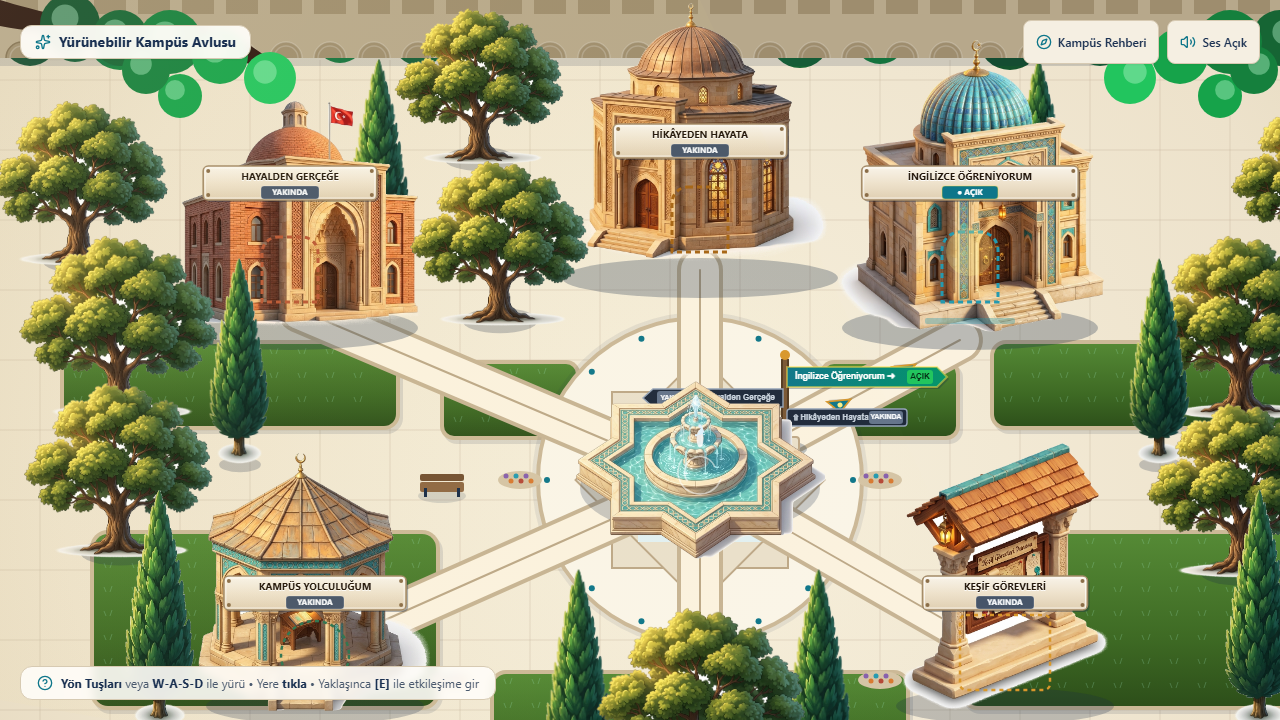
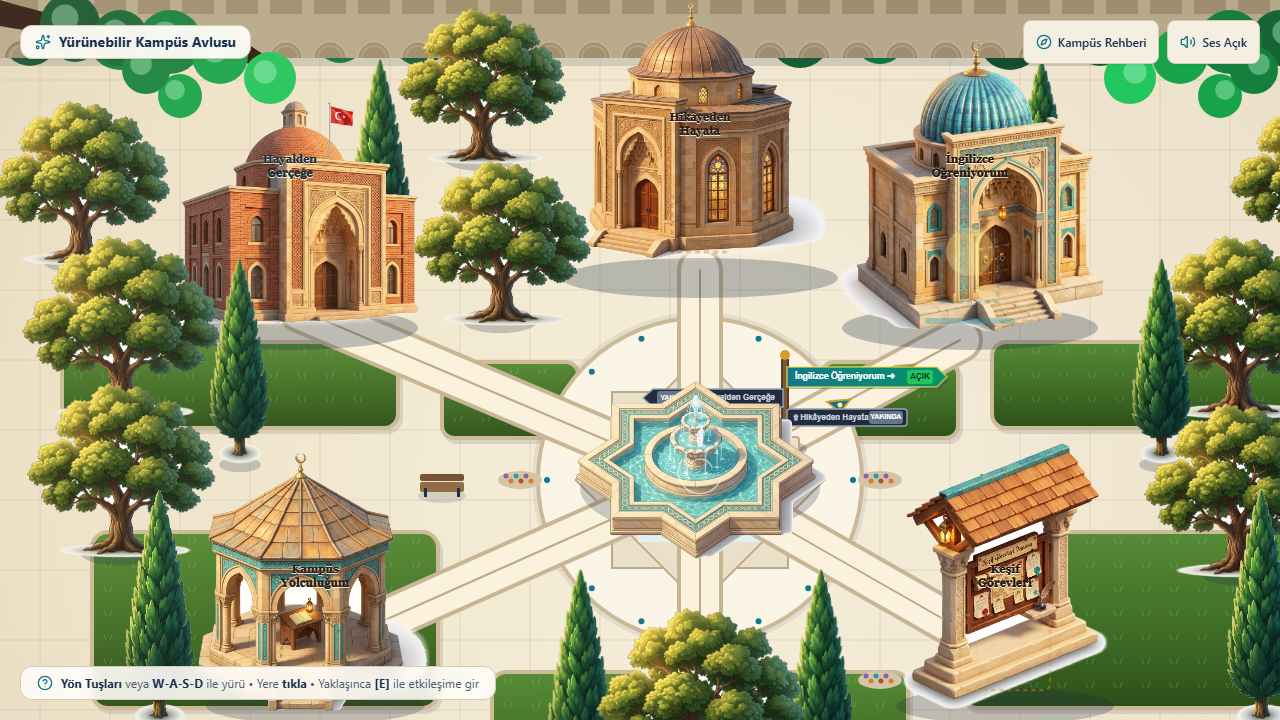
fix(visual): integrate building names directly into architectural walls

diff --git a/src/features/walkable/engine/courtyardSceneRenderer.ts b/src/features/walkable/engine/courtyardSceneRenderer.ts
@@ -10,7 +10,7 @@
 
 import type { PlayerCharacter } from '../types';
 import { drawCharacter } from './characterRenderer';
-import { CAMPUS_INSCRIPTION_NAMES } from '@/src/data/brandConfig';
+import { CAMPUS_ARCHITECTURAL_INSCRIPTIONS } from '@/src/data/brandConfig';
 import {
   getEnglishBuildingAsset,
   getDiscoveryBuildingAsset,
@@ -946,120 +946,53 @@ function drawPathwayGuidanceArrows(ctx: CanvasRenderingContext2D) {
 }
 
 /**
- * Mimari Taş Kitabe Çizimi (Onarım 02):
- * Selçuklu taş mimarisiyle bütünleşen, oyma taş ve zarif kabartma gölgesine sahip
- * anıtsal bina kitabesi. Modern reklam levhası veya parlak plastik tabela yerine,
- * sıcak kumtaşı/kireçtaşı dokulu taş panolar ve taşa işlenmiş kabartma harfler kullanılır.
+ * Mimari Taş Duvar Yazısı Çizimi (Onarım 03A):
+ * Selçuklu taş mimarisiyle ve referans görselle tam uyumlu biçimde, doğrudan bina
+ * cephe taşlarına ya da çini frizlerine oyulmuş iki satırlı duvar kitabesi.
+ *
+ * Kesinlikle dikdörtgen tabela kutusu, kenarlık çerçevesi, asılı pano veya
+ * köşe çivisi/rozeti YOKTUR.
+ * Cephede "AÇIK" veya "YAKINDA" gibi durum ifadeleri yer almaz.
  */
-function drawBuildingPlaque(
+function drawDirectWallInscription(
   ctx: CanvasRenderingContext2D,
   centerX: number,
-  y: number,
-  title: string,
-  status: 'AÇIK' | 'YAKINDA',
-  now: number = 0,
+  startY: number,
+  lines: readonly string[] | string[],
+  variant: 'sandstone' | 'glazed-tile' = 'sandstone',
 ) {
   ctx.save();
-  const plaqueW = Math.max(154, title.length * 8.6 + 36);
-  const plaqueH = 34;
-  const plaqueX = centerX - plaqueW / 2;
-
-  // 1. Zemin derinlik temas gölgesi
-  ctx.fillStyle = 'rgba(23, 43, 71, 0.35)';
-  ctx.beginPath();
-  if (typeof ctx.roundRect === 'function') {
-    ctx.roundRect(plaqueX + 2, y + 2, plaqueW, plaqueH, 5);
-  } else {
-    ctx.rect(plaqueX + 2, y + 2, plaqueW, plaqueH);
-  }
-  ctx.fill();
-
-  // 2. Taş Kitabe Gövdesi (Sıcak Kumtaşı / Kireçtaşı Degrade)
-  const stoneGrad = ctx.createLinearGradient(plaqueX, y, plaqueX, y + plaqueH);
-  stoneGrad.addColorStop(0, '#f9f4ea');
-  stoneGrad.addColorStop(0.5, '#eee2cc');
-  stoneGrad.addColorStop(1, '#dfceb1');
-  ctx.fillStyle = stoneGrad;
-  ctx.beginPath();
-  if (typeof ctx.roundRect === 'function') {
-    ctx.roundRect(plaqueX, y, plaqueW, plaqueH, 5);
-  } else {
-    ctx.rect(plaqueX, y, plaqueW, plaqueH);
-  }
-  ctx.fill();
-
-  // 3. Selçuklu Taş Oyma Bordür ve Çerçeve
-  const isAvailable = status === 'AÇIK';
-  ctx.strokeStyle = '#a48b68';
-  ctx.lineWidth = 1.6;
-  ctx.stroke();
-
-  // İç oyuk yiv çizgisi (Derz / Inset Line)
-  ctx.strokeStyle = 'rgba(255, 255, 255, 0.65)';
-  ctx.lineWidth = 1;
-  ctx.strokeRect(plaqueX + 2, y + 2, plaqueW - 4, plaqueH - 4);
-
-  // 4 Köşe Selçuklu Geometrik Taş Rozeti / Çivi Başı
-  ctx.fillStyle = '#8b6e49';
-  const cornerR = 2;
-  const corners = [
-    [plaqueX + 5, y + 5],
-    [plaqueX + plaqueW - 5, y + 5],
-    [plaqueX + 5, y + plaqueH - 5],
-    [plaqueX + plaqueW - 5, y + plaqueH - 5],
-  ];
-  for (const [cx, cy] of corners) {
-    ctx.beginPath();
-    ctx.arc(cx, cy, cornerR, 0, Math.PI * 2);
-    ctx.fill();
-  }
-
-  // 4. Taşa Oyulmuş Kitabe Metni (Kabartma / Oyma Taş Gölgesi)
-  ctx.font = 'bold 10px "Avenir Next", "Segoe UI", sans-serif';
   ctx.textAlign = 'center';
   ctx.textBaseline = 'middle';
+  ctx.font = 'bold 11px "Georgia", "Cinzel", "Times New Roman", "Avenir Next", serif';
 
-  // Alt aydınlık yansıma (Chiseled bevel highlight)
-  ctx.fillStyle = 'rgba(255, 255, 255, 0.85)';
-  ctx.fillText(title, centerX, y + 12);
+  const lineHeight = 13.5;
+  const isTile = variant === 'glazed-tile';
 
-  // Üst oyuk gölgesi (Carved inner shadow)
-  ctx.fillStyle = '#221508';
-  ctx.fillText(title, centerX, y + 11);
+  // Çini veya kumtaşı cepheye göre oyma taş ve rölyef tonları
+  const deepColor = isTile ? '#112536' : '#27170a';
+  const highlightColor = isTile ? 'rgba(255, 255, 255, 0.78)' : 'rgba(255, 255, 255, 0.82)';
+  const innerShadowColor = isTile ? 'rgba(6, 14, 22, 0.65)' : 'rgba(20, 10, 4, 0.65)';
 
-  // 5. Zarif Durum Rozeti (Mimari Taş Kartuş / Mühür)
-  const badgeW = isAvailable ? 56 : 58;
-  const badgeH = 13;
-  const badgeX = centerX - badgeW / 2;
-  const badgeY = y + 20;
+  lines.forEach((line, index) => {
+    const lineY = startY + index * lineHeight;
 
-  ctx.fillStyle = isAvailable ? '#0e768a' : '#475569';
-  ctx.beginPath();
-  if (typeof ctx.roundRect === 'function') {
-    ctx.roundRect(badgeX, badgeY, badgeW, badgeH, 3);
-  } else {
-    ctx.rect(badgeX, badgeY, badgeW, badgeH);
-  }
-  ctx.fill();
+    // 1. Alt aydınlık taş rölyef ışıması (Güneş açısıyla ışık alan taş pahı)
+    ctx.fillStyle = highlightColor;
+    ctx.fillText(line, centerX, lineY + 1);
 
-  // Açık olan bina için hafif Selçuklu altın/turkuaz vurgusu
-  if (isAvailable) {
-    const pulse = Math.sin(now / 260) * 0.3 + 0.7;
-    ctx.strokeStyle = `rgba(253, 224, 71, ${pulse})`;
-    ctx.lineWidth = 1.2;
-    ctx.stroke();
-  } else {
-    ctx.strokeStyle = 'rgba(255, 255, 255, 0.25)';
-    ctx.lineWidth = 1;
-    ctx.stroke();
-  }
+    // 2. Üst oyuk gölgesi (Taş oyuğunun iç gölgesi)
+    ctx.fillStyle = innerShadowColor;
+    ctx.fillText(line, centerX, lineY - 0.5);
 
-  ctx.fillStyle = isAvailable ? '#ffffff' : '#f8fafc';
-  ctx.font = 'bold 8px "Avenir Next", "Segoe UI", sans-serif';
-  ctx.fillText(isAvailable ? '● AÇIK' : 'YAKINDA', centerX, badgeY + 6.5);
+    // 3. Taşa oyulmuş ana gövde rengi
+    ctx.fillStyle = deepColor;
+    ctx.fillText(line, centerX, lineY);
+  });
 
   ctx.restore();
 }
+
 
 /**
  * Merkez Meydan Yönlendirici Totem / Tabela (Section 10).
@@ -1302,8 +1235,8 @@ function drawEnglishBuilding(
     ctx.roundRect(portalCenterX - 45, y + h - 2, 90, 6, 2);
     ctx.fill();
 
-    // 6. Mimari Bina İsim Tabelası ve Durum Rozeti [AÇIK]
-    drawBuildingPlaque(ctx, portalCenterX, y + 26, CAMPUS_INSCRIPTION_NAMES.english, 'AÇIK', now);
+    // 6. Doğrudan Mimari Duvar Yazısı (İki Satırlı Taş Kazıma)
+    drawDirectWallInscription(ctx, portalCenterX, y + 20, CAMPUS_ARCHITECTURAL_INSCRIPTIONS.english, 'sandstone');
 
     ctx.restore();
     return;
@@ -1429,8 +1362,8 @@ function drawEnglishBuilding(
   drawLantern(ctx, portalX - 6, portalY + 22, now);
   drawLantern(ctx, portalX + portalW + 6, portalY + 22, now);
 
-  // 7. Mimari Bina İsim Tabelası ve Durum Rozeti [AÇIK]
-  drawBuildingPlaque(ctx, x + w / 2, y + 54, CAMPUS_INSCRIPTION_NAMES.english, 'AÇIK', now);
+  // 7. Doğrudan Mimari Duvar Yazısı (İki Satırlı Taş Kazıma)
+  drawDirectWallInscription(ctx, x + w / 2, y + 48, CAMPUS_ARCHITECTURAL_INSCRIPTIONS.english, 'sandstone');
 
   ctx.restore();
 }
@@ -1477,8 +1410,8 @@ function drawDiscoveryBuilding(
     ctx.stroke();
     ctx.restore();
 
-    // 4. Selçuklu Mimari Bina İsim Tabelası ve Durum Rozeti [YAKINDA]
-    drawBuildingPlaque(ctx, portalCenterX, y + 26, CAMPUS_INSCRIPTION_NAMES.discovery, 'YAKINDA', now);
+    // 4. Doğrudan Mimari Duvar Yazısı (Çini / Taş Yüzey)
+    drawDirectWallInscription(ctx, portalCenterX, y + 20, CAMPUS_ARCHITECTURAL_INSCRIPTIONS.discovery, 'glazed-tile');
 
     ctx.restore();
     return;
@@ -1537,8 +1470,8 @@ function drawDiscoveryBuilding(
   ctx.roundRect(portalX, portalY, portalW, portalH, [16, 16, 0, 0]);
   ctx.fill();
 
-  // Tabela ve Durum Rozeti [YAKINDA]
-  drawBuildingPlaque(ctx, x + w / 2, y + 54, CAMPUS_INSCRIPTION_NAMES.discovery, 'YAKINDA', now);
+  // Doğrudan Mimari Duvar Yazısı (Çini / Taş Yüzey)
+  drawDirectWallInscription(ctx, x + w / 2, y + 48, CAMPUS_ARCHITECTURAL_INSCRIPTIONS.discovery, 'glazed-tile');
 
   ctx.restore();
 }
@@ -1585,8 +1518,8 @@ function drawLibraryBuilding(
     ctx.stroke();
     ctx.restore();
 
-    // 4. Selçuklu Mimari Bina İsim Tabelası ve Durum Rozeti [YAKINDA]
-    drawBuildingPlaque(ctx, portalCenterX, y + 24, CAMPUS_INSCRIPTION_NAMES.library, 'YAKINDA', now);
+    // 4. Doğrudan Mimari Duvar Yazısı (Kumtaşı Yüzey)
+    drawDirectWallInscription(ctx, portalCenterX, y + 18, CAMPUS_ARCHITECTURAL_INSCRIPTIONS.library, 'sandstone');
 
     ctx.restore();
     return;
@@ -1651,8 +1584,8 @@ function drawLibraryBuilding(
   ctx.roundRect(portalX, portalY, portalW, portalH, [16, 16, 0, 0]);
   ctx.fill();
 
-  // Tabela ve Durum Rozeti [YAKINDA]
-  drawBuildingPlaque(ctx, x + w / 2, y + 54, CAMPUS_INSCRIPTION_NAMES.library, 'YAKINDA', now);
+  // Doğrudan Mimari Duvar Yazısı (Kumtaşı Yüzey)
+  drawDirectWallInscription(ctx, x + w / 2, y + 48, CAMPUS_ARCHITECTURAL_INSCRIPTIONS.library, 'sandstone');
 
   ctx.restore();
 }
@@ -1697,8 +1630,8 @@ function drawJourneyPavilion(
     ctx.stroke();
     ctx.restore();
 
-    // 4. Selçuklu Mimari Bina İsim Tabelası ve Durum Rozeti [YAKINDA]
-    drawBuildingPlaque(ctx, portalCenterX, y + 16, 'KAMPÜS YOLCULUĞUM', 'YAKINDA', now);
+    // 4. Doğrudan Mimari Duvar Yazısı (Çardak Cephesi)
+    drawDirectWallInscription(ctx, portalCenterX, y + 10, CAMPUS_ARCHITECTURAL_INSCRIPTIONS.journey, 'sandstone');
 
     ctx.restore();
     return;
@@ -1736,8 +1669,8 @@ function drawJourneyPavilion(
     ctx.fill();
   }
 
-  // Tabela ve Durum Rozeti [YAKINDA]
-  drawBuildingPlaque(ctx, x + w / 2, y + 22, 'KAMPÜS YOLCULUĞUM', 'YAKINDA', now);
+  // Doğrudan Mimari Duvar Yazısı (Çardak Cephesi)
+  drawDirectWallInscription(ctx, x + w / 2, y + 16, CAMPUS_ARCHITECTURAL_INSCRIPTIONS.journey, 'sandstone');
 
   ctx.restore();
 }
@@ -1782,8 +1715,8 @@ function drawMissionsKiosk(
     ctx.stroke();
     ctx.restore();
 
-    // 4. Selçuklu Mimari Bina İsim Tabelası ve Durum Rozeti [YAKINDA]
-    drawBuildingPlaque(ctx, portalCenterX, y + 16, 'KEŞİF GÖREVLERİ', 'YAKINDA', now);
+    // 4. Doğrudan Mimari Duvar Yazısı (Büfe Cephesi)
+    drawDirectWallInscription(ctx, portalCenterX, y + 10, CAMPUS_ARCHITECTURAL_INSCRIPTIONS.missions, 'sandstone');
 
     ctx.restore();
     return;
@@ -1830,8 +1763,8 @@ function drawMissionsKiosk(
   ctx.fillRect(x + 92, y + 54, 8, 4);
   ctx.fillRect(x + 144, y + 54, 8, 4);
 
-  // Tabela ve Durum Rozeti [YAKINDA]
-  drawBuildingPlaque(ctx, x + w / 2, y + 22, 'KEŞİF GÖREVLERİ', 'YAKINDA', now);
+  // Doğrudan Mimari Duvar Yazısı (Büfe Cephesi)
+  drawDirectWallInscription(ctx, x + w / 2, y + 16, CAMPUS_ARCHITECTURAL_INSCRIPTIONS.missions, 'sandstone');
 
   ctx.restore();
 }

diff --git a/src/features/entrance/CampusGateView.tsx b/src/features/entrance/CampusGateView.tsx
@@ -7,51 +7,37 @@ interface CampusGateViewProps {
 }
 
 /**
- * Ana Giriş Kapısı Mimari Taş Kitabesi (Onarım 02):
- * Selçuklu mimarisine uygun taş kitabe görünümü, taşa işlenmiş kabartma etkisi,
- * sıcak kumtaşı renkleri ve kesinleşmiş görsel hiyerarşi:
- * 1. YENİ NESİL KÜLLİYE (Büyük harf, en belirgin)
- * 2. Dijital Öğrenme Kampüsü (Alt başlık)
- * 3. Geçmişin bilgeliği, geleceğin öğrenme dünyası (Slogan)
+ * Ana Giriş Taç Kapısı Mimari Taş Duvar Yazısı (Onarım 03A):
+ * Referans görseldeki gibi doğrudan taş cephe yüzeyine kazınmış anıtsal kitabe.
+ * Kesinlikle yapay levha çerçevesi, kutu, kenarlık veya köşe rozeti YOKTUR.
+ * 1. YENİ NESİL KÜLLİYE (Büyük harf, belirgin oyma taş rölyefi)
+ * 2. Dijital Öğrenme Kampüsü (Dengeli alt başlık)
+ * 3. Geçmişin bilgeliği, geleceğin öğrenme dünyası (Doğal taşla bütünleşik slogan)
  */
 function ArchitecturalPortalInscription({ isOpening }: { isOpening: boolean }) {
   return (
     <div
       aria-hidden="true"
-      className={`absolute top-[16%] left-1/2 -translate-x-1/2 w-[52%] sm:w-[42%] max-w-[325px] pointer-events-none transition-transform duration-700 ease-out ${
+      className={`absolute top-[16%] left-1/2 -translate-x-1/2 w-[54%] sm:w-[44%] max-w-[340px] pointer-events-none transition-transform duration-700 ease-out ${
         isOpening ? 'scale-105 filter brightness-110' : ''
       }`}
     >
-      <div className="relative px-2.5 py-1.5 sm:px-3.5 sm:py-2 rounded-xs bg-gradient-to-b from-[#f4e9d3]/96 via-[#e8d6b8]/96 to-[#d7c19c]/96 border border-[#8f7350]/85 shadow-[0_2px_8px_rgba(30,20,10,0.5),inset_0_1px_1px_rgba(255,255,255,0.85),inset_0_-1px_2px_rgba(50,35,18,0.4)] backdrop-blur-[0.5px]">
-        {/* İnce Taş Oyma Derz Çerçevesi */}
-        <div className="absolute inset-[2.5px] border border-[#a48a68]/50 rounded-2xs pointer-events-none" />
+      {/* Doğrudan Taş Yüzeyine Kazınmış / Oyulmuş Duvar Yazısı (Tabela Kutusu veya Çerçeve Yoktur) */}
+      <div className="flex flex-col items-center justify-center text-center space-y-0.5 select-none px-2 py-1">
+        {/* 1. Ana Marka Adı (Büyük Harf, En Belirgin, Oyma Taş Rölyef Etkisi) */}
+        <span className="text-[11px] xs:text-[12px] sm:text-[14px] md:text-[15px] font-extrabold tracking-[0.09em] sm:tracking-[0.13em] text-[#221306] drop-shadow-[0_1px_0_rgba(255,255,255,0.85)] font-serif uppercase leading-tight [text-shadow:_0_1px_1px_rgba(255,255,255,0.7),_0_-1px_1px_rgba(34,19,6,0.6)]">
+          {CAMPUS_INSCRIPTION_NAMES.brand}
+        </span>
 
-        {/* Dört Köşe Selçuklu Oyma Taş Rozetleri */}
-        <span className="absolute top-1 left-1.5 text-[7px] text-[#785b37] leading-none select-none">❖</span>
-        <span className="absolute top-1 right-1.5 text-[7px] text-[#785b37] leading-none select-none">❖</span>
-        <span className="absolute bottom-1 left-1.5 text-[7px] text-[#785b37] leading-none select-none">❖</span>
-        <span className="absolute bottom-1 right-1.5 text-[7px] text-[#785b37] leading-none select-none">❖</span>
+        {/* 2. Alt Başlık (Daha Küçük, Zarif Taş Oyma) */}
+        <span className="text-[8.5px] xs:text-[9.5px] sm:text-[11px] font-semibold tracking-wide text-[#3d2611] drop-shadow-[0_1px_0_rgba(255,255,255,0.75)] leading-tight [text-shadow:_0_0.5px_1px_rgba(255,255,255,0.6)]">
+          {CAMPUS_BRAND.subtitle}
+        </span>
 
-        {/* Kitabe Metin Hiyerarşisi */}
-        <div className="flex flex-col items-center justify-center text-center space-y-0.5">
-          {/* 1. Ana Marka Adı (Büyük Harf, En Belirgin, Oyma Taş Etkisi) */}
-          <span className="text-[10.5px] xs:text-[11.5px] sm:text-[13.5px] md:text-[14.5px] font-extrabold tracking-[0.08em] sm:tracking-[0.12em] text-[#221407] drop-shadow-[0_1px_0_rgba(255,255,255,0.8)] font-serif uppercase leading-tight">
-            {CAMPUS_INSCRIPTION_NAMES.brand}
-          </span>
-
-          {/* 2. Alt Başlık (Daha Küçük, Dengeli) */}
-          <span className="text-[8.5px] xs:text-[9px] sm:text-[10.5px] font-semibold tracking-wide text-[#4f361c] drop-shadow-[0_0.5px_0_rgba(255,255,255,0.6)] leading-tight">
-            {CAMPUS_BRAND.subtitle}
-          </span>
-
-          {/* İnce Taş Ayırıcı Çizgi */}
-          <div className="w-14 sm:w-20 h-[1px] bg-gradient-to-r from-transparent via-[#8f7350]/65 to-transparent my-0.5" />
-
-          {/* 3. Slogan (En Küçük, Okunabilir, İki Satıra İzinli) */}
-          <span className="text-[7px] xs:text-[7.5px] sm:text-[9px] font-medium text-[#684a2b] leading-snug drop-shadow-[0_0.5px_0_rgba(255,255,255,0.5)]">
-            {CAMPUS_BRAND.slogan}
-          </span>
-        </div>
+        {/* 3. Slogan (En Küçük, Okunabilir, Doğal Taşla Bütünleşik) */}
+        <span className="text-[7px] xs:text-[7.5px] sm:text-[9px] font-medium text-[#573b1f] leading-snug drop-shadow-[0_0.5px_0_rgba(255,255,255,0.65)] [text-shadow:_0_0.5px_0.5px_rgba(255,255,255,0.5)] mt-0.5">
+          {CAMPUS_BRAND.slogan}
+        </span>
       </div>
     </div>
   );

diff --git a/src/data/brandConfig.ts b/src/data/brandConfig.ts
@@ -34,3 +34,15 @@ export const CAMPUS_INSCRIPTION_NAMES = {
   /** Hikâye binası mimari kitabesi (Büyük Harf) */
   library: 'HİKÂYEDEN HAYATA',
 } as const;
+
+/**
+ * Onarım 03A — Doğrudan Mimari Taş Duvar Yazıları (İki Satırlı Doğal Tipografi)
+ * Levha/kutu/tabela olmaksızın, doğrudan bina cephe taşlarına kazınan isimler.
+ */
+export const CAMPUS_ARCHITECTURAL_INSCRIPTIONS = {
+  english: ['İngilizce', 'Öğreniyorum'],
+  discovery: ['Hayalden', 'Gerçeğe'],
+  library: ['Hikâyeden', 'Hayata'],
+  journey: ['Kampüs', 'Yolculuğum'],
+  missions: ['Keşif', 'Görevleri'],
+} as const;
